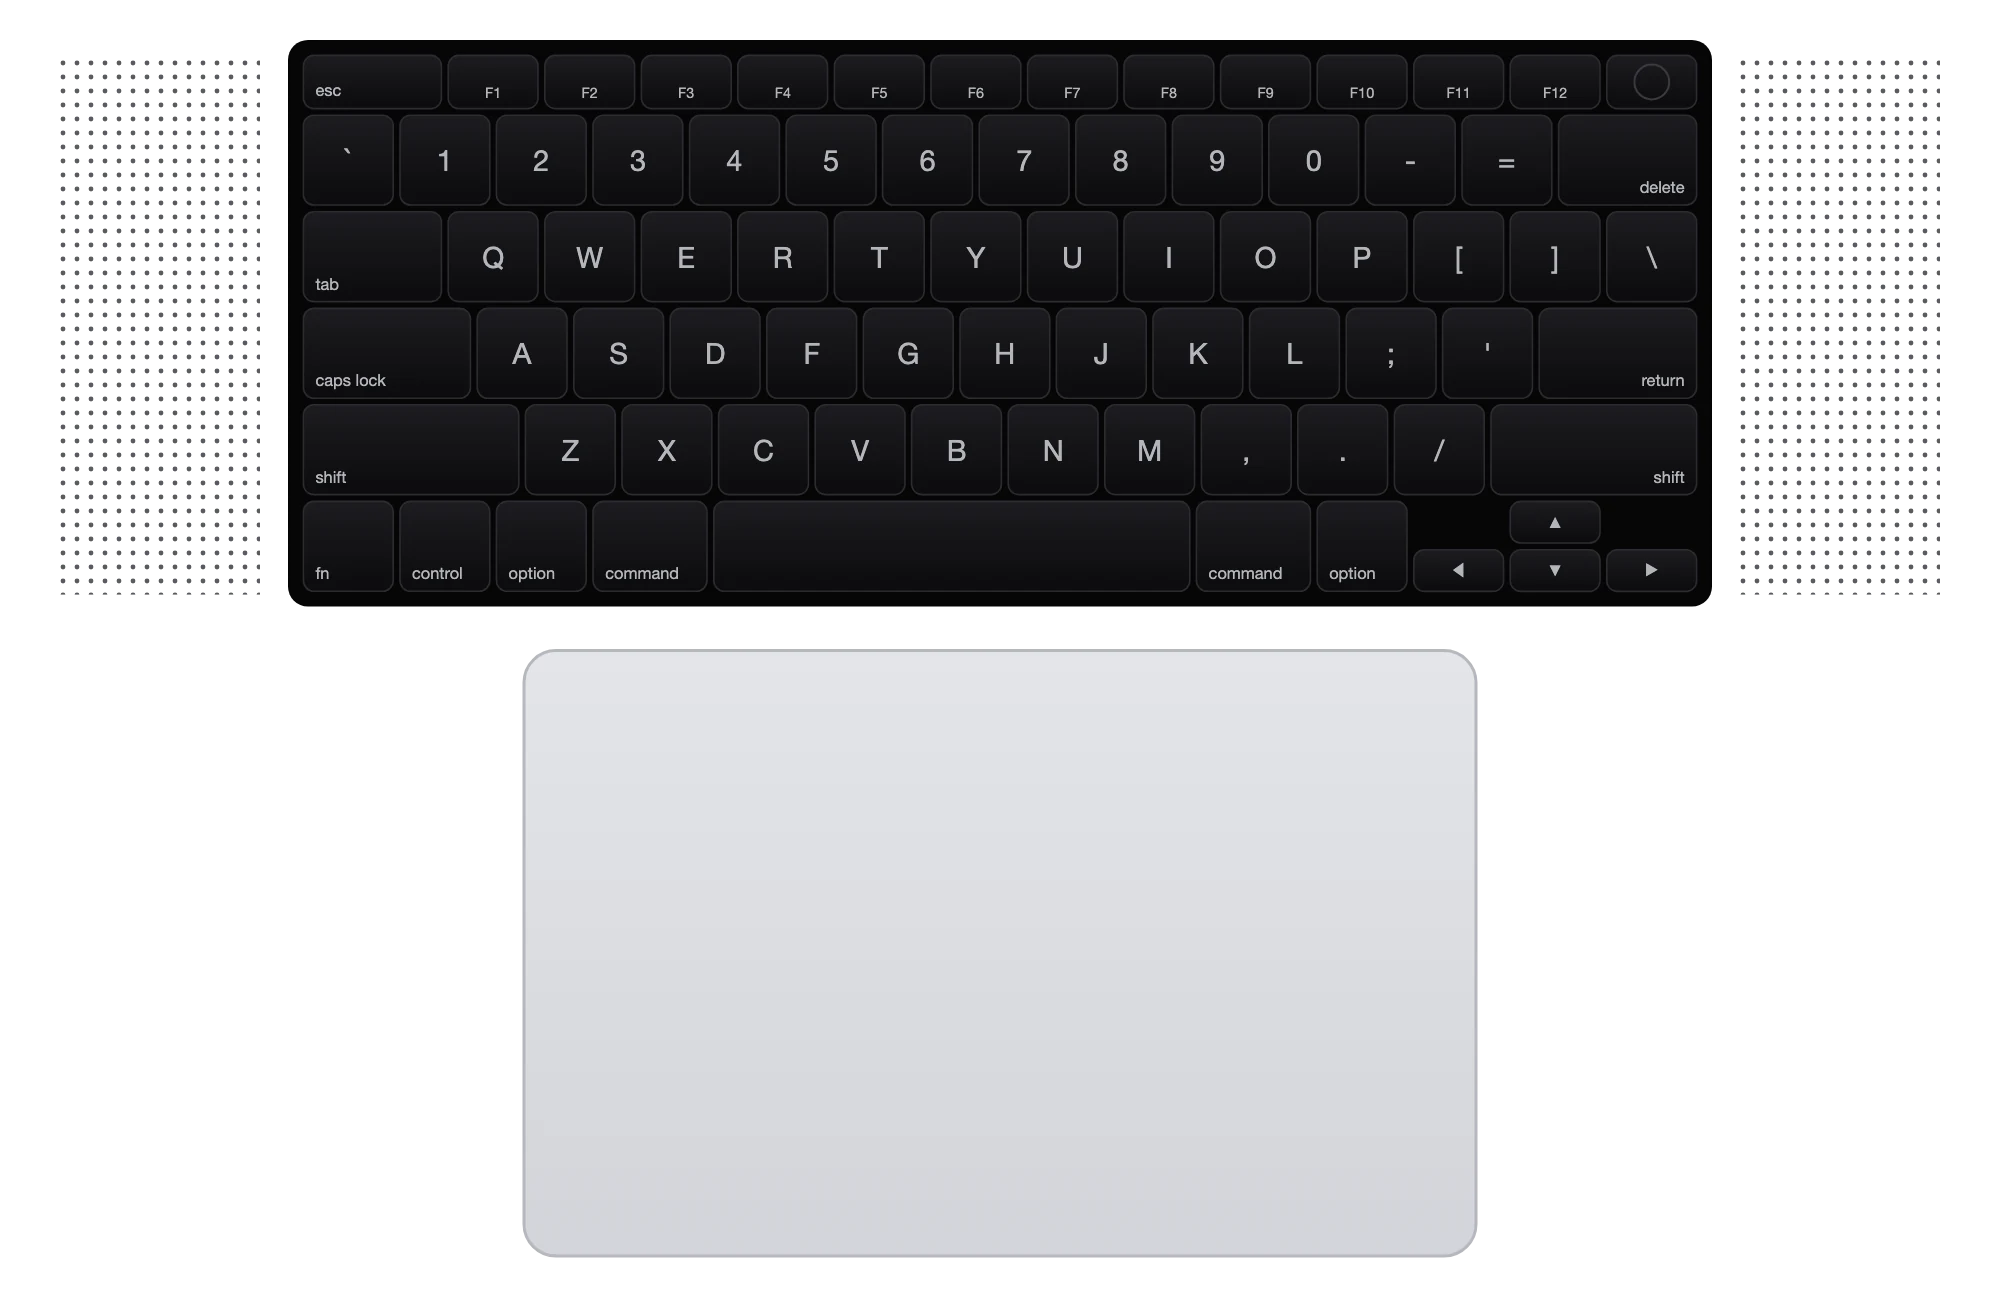
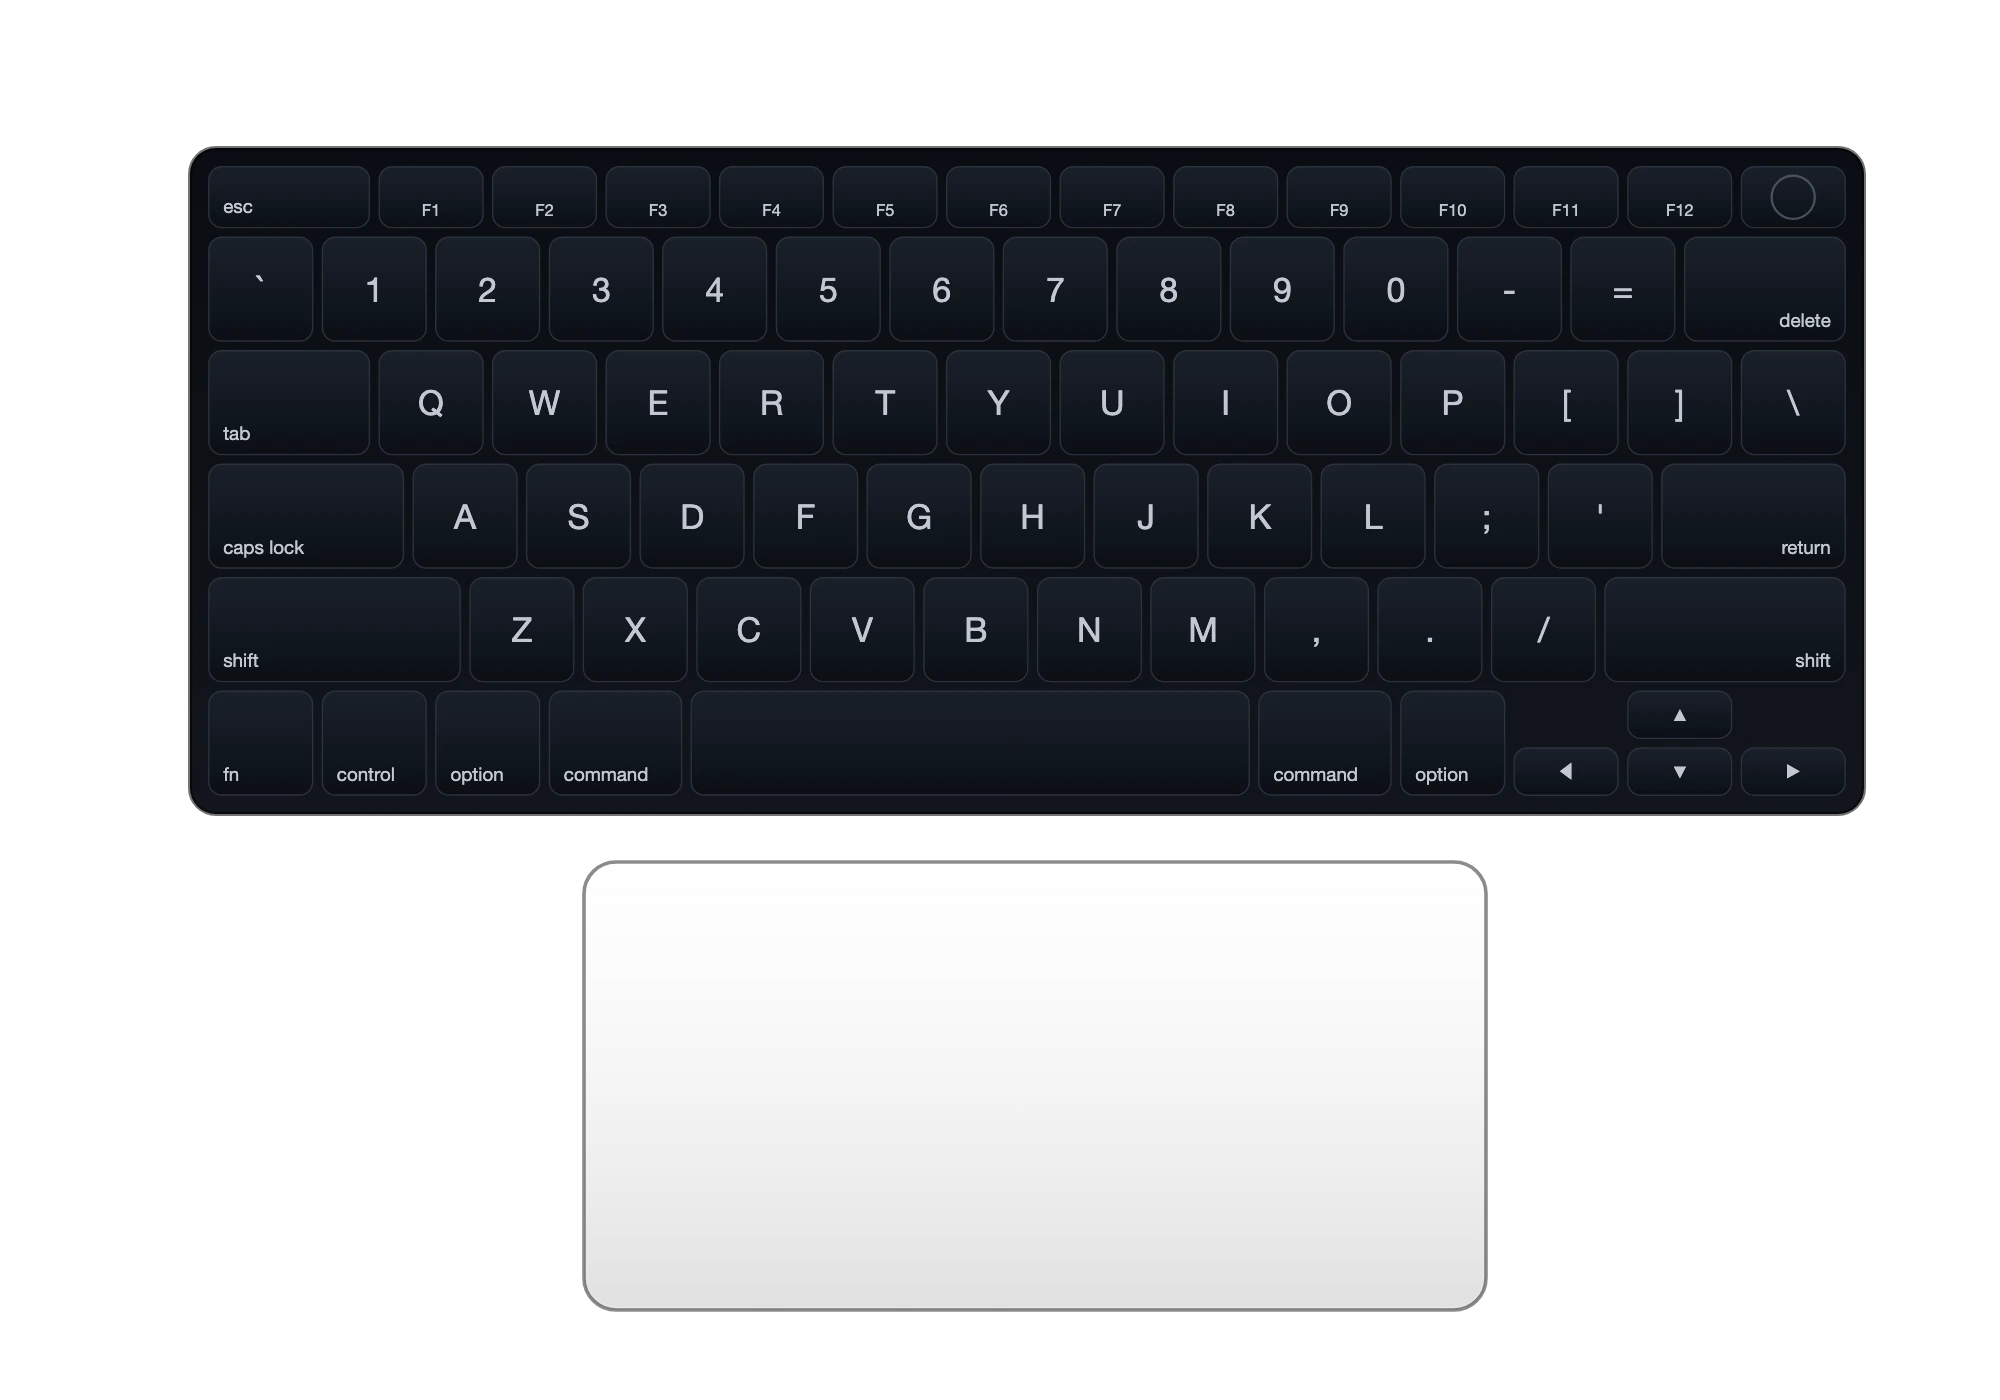
Realistickejší MacBook: Midnight Air 15 s reálnymi proporciami, novou klávesnicou a hranami; Space Solutions pri projekte s chatbotom

diff --git a/styles.css b/styles.css
@@ -227,7 +227,6 @@ h2 { font-size: clamp(2.6rem, 5.6vw, 5rem); font-weight: 800; line-height: 1; le
 .chips li { padding: 6px 10px; background: var(--bg-2); border-radius: 3px; font-family: var(--mono); font-size: 0.78rem; }
 
 /* MacBook that opens on scroll (sticky stage inside a tall wrapper) */
-/* svh, not vh: on phones vh changes while the address bar hides, which made the page jump */
 .mbwrap { position: relative; height: 260vh; height: 260svh; }
 .mbwrap__sticky {
   position: sticky; top: 0; height: 100vh; height: 100svh; overflow: hidden;
@@ -235,14 +234,22 @@ h2 { font-size: clamp(2.6rem, 5.6vw, 5rem); font-weight: 800; line-height: 1; le
   background: radial-gradient(60% 55% at 50% 58%, #f7f6f2, var(--bg) 70%);
 }
 .mbwrap__label { margin: 0; opacity: calc(var(--open, 0) * 1.4 - 0.2); }
-.mb__rig { will-change: transform; }
+
+/* Midnight MacBook Air 15", built to the real proportions: 340 x 238 x 11.5 mm */
 .mb {
-  --w: min(860px, 86vw, (100vh - 200px) * 0.98);
-  --w: min(860px, 86vw, (100svh - 200px) * 0.98);
-  --h: calc(var(--w) * 0.65);
-  --d: calc(var(--h) * 0.98);
-  --t: calc(var(--w) * 0.016); /* base thickness */
-  width: var(--w); height: calc(var(--h) + var(--d) * 0.24); margin-top: calc(var(--w) * 0.07);
+  /* 76vw, not the full width: the deck tilts toward the viewer, so it renders ~25 % wider than --w */
+  --w: min(860px, 76vw, (100vh - 200px) * 0.98);
+  --w: min(860px, 76vw, (100svh - 200px) * 0.98);
+  --h: calc(var(--w) * 0.685);  /* lid height */
+  --d: calc(var(--w) * 0.70);   /* deck depth */
+  --t: calc(var(--w) * 0.021);  /* thickness of the base */
+  --r: calc(var(--w) * 0.03);   /* outer corner radius */
+  --m-dark: #151a22;
+  --m-mid: #232b37;
+  --m-light: #3b4653;
+  --m-chamfer: #8a95a5;         /* diamond-cut edge that catches the light */
+  width: var(--w); height: calc(var(--h) + var(--d) * 0.24);
+  margin-top: calc(var(--w) * 0.07);
   perspective: calc(var(--w) * 3.4); perspective-origin: 50% 40%;
   /* Closed laptop sits lower and smaller; it rises to center as it opens */
   transform: translateY(calc((1 - var(--open, 0)) * var(--h) * -0.35)) scale(calc(0.84 + var(--open, 0) * 0.16));
@@ -252,79 +259,103 @@ h2 { font-size: clamp(2.6rem, 5.6vw, 5rem); font-weight: 800; line-height: 1; le
   transform-origin: 50% 100% calc(var(--d) * 0.5); /* turn around the middle of the base, not the hinge */
   /* Turns from a three-quarter view to straight-on while opening */
   transform: rotateX(-13deg) rotateY(calc((1 - var(--open, 0)) * var(--turn, -16deg)));
+  will-change: transform;
 }
 .mb__lid {
   position: absolute; inset: 0; transform-style: preserve-3d; transform-origin: 50% 100%;
-  /* --open 0 → lid lies closed just above the deck, 1 → open and tilted slightly back */
-  transform: translateY(calc(var(--w) * -0.005)) rotateX(calc(-90deg + var(--open, 0) * 100deg));
+  /* --open 0 -> lid lies closed just above the deck, 1 -> open and tilted slightly back */
+  transform: translateY(calc(var(--w) * -0.004)) rotateX(calc(-90deg + var(--open, 0) * 101deg));
 }
-.mb__face, .mb__back { position: absolute; inset: 0; border-radius: calc(var(--w) * 0.026) calc(var(--w) * 0.026) calc(var(--w) * 0.008) calc(var(--w) * 0.008); -webkit-backface-visibility: hidden; backface-visibility: hidden; }
-/* iPhone (WebKit) ignores backface-visibility for animated layers inside the screen, so the closed lid showed
-   the display instead of the aluminium back. Hide the screen side until the lid is actually lifted. */
-.mb__face { opacity: clamp(0, (var(--open, 0) - 0.12) * 25, 1); }
-/* Black glass bezel with the thin aluminium rim around it */
+.mb__face, .mb__back {
+  position: absolute; inset: 0;
+  border-radius: var(--r) var(--r) calc(var(--w) * 0.007) calc(var(--w) * 0.007);
+  -webkit-backface-visibility: hidden; backface-visibility: hidden;
+}
+/* Front of the lid: one sheet of black glass inside a hairline aluminium rim */
 .mb__face {
-  background: #050506; overflow: hidden;
-  box-shadow: 0 0 0 calc(var(--w) * 0.0035) #c3c6cc, 0 0 0 calc(var(--w) * 0.005) #8e9197, inset 0 0 0 1px #1d1d21;
+  background: #07080b; overflow: hidden;
+  box-shadow: 0 0 0 calc(var(--w) * 0.0024) #414b58, 0 0 0 calc(var(--w) * 0.0042) #1a202a,
+              0 calc(var(--w) * 0.004) calc(var(--w) * 0.02) rgba(5, 7, 10, 0.5);
+  /* iPhone ignores backface-visibility here, so the screen stays hidden until the lid lifts */
+  opacity: clamp(0, (var(--open, 0) - 0.12) * 25, 1);
 }
+/* Back of the lid: anodised midnight aluminium lit from the upper left */
 .mb__back {
   transform: rotateY(180deg);
   background:
-    radial-gradient(70% 90% at 30% 20%, rgba(255, 255, 255, 0.55), transparent 60%),
-    linear-gradient(165deg, #eceef1, #cfd2d7 55%, #b9bcc2);
-  box-shadow: inset 0 0 0 1px #aeb1b7, inset 0 calc(var(--w) * 0.004) 0 rgba(255, 255, 255, 0.7);
+    radial-gradient(75% 60% at 26% 12%, rgba(255, 255, 255, 0.13), transparent 62%),
+    linear-gradient(157deg, var(--m-light), var(--m-mid) 46%, var(--m-dark));
+  box-shadow: inset 0 0 0 1px rgba(255, 255, 255, 0.06),
+              inset 0 calc(var(--w) * 0.0022) 0 rgba(255, 255, 255, 0.16);
 }
 .mb__screen, .mb__off, .mb__glare {
-  position: absolute; left: 2%; right: 2%; top: 3%; bottom: 3.2%; border-radius: calc(var(--w) * 0.006);
+  position: absolute; left: 1.9%; right: 1.9%; top: 2.5%; bottom: 3.6%;
+  border-radius: calc(var(--w) * 0.013);
 }
 .mb__screen { overflow: hidden; background: #f4f4f1; container-type: inline-size; }
-.mb__off { background: radial-gradient(120% 90% at 30% 0%, #16171b, #030304 60%); opacity: calc(1 - (var(--open, 0) - 0.72) * 4); pointer-events: none; }
-.mb__glare { background: linear-gradient(118deg, rgba(255, 255, 255, 0.14) 0%, rgba(255, 255, 255, 0.04) 32%, transparent 33%); pointer-events: none; }
-.mb .dmac__notch { z-index: 3; width: 13%; height: 5.2%; border-radius: 0 0 calc(var(--w) * 0.01) calc(var(--w) * 0.01); background: #050506; }
-/* Keyboard deck: aluminium plus a detailed SVG keyboard, speakers and trackpad */
-.mb__deck {
-  position: absolute; top: 100%; left: 0; width: 100%; height: var(--d); transform-origin: 50% 0; transform: rotateX(90deg);
-  border-radius: calc(var(--w) * 0.008) calc(var(--w) * 0.008) calc(var(--w) * 0.03) calc(var(--w) * 0.03);
-  background:
-    url("assets/img/macbook-deck.webp") center / 100% 100% no-repeat, /* pre-rendered: a bitmap scales cheaply, the SVG re-rasterized on every scroll frame */
-    radial-gradient(80% 70% at 50% 30%, rgba(255, 255, 255, 0.5), transparent 70%),
-    linear-gradient(180deg, #d2d5da, #e6e8eb 35%, #dadde1);
-  box-shadow: inset 0 0 0 1px #b4b7bd, inset 0 calc(var(--w) * -0.003) 0 rgba(255, 255, 255, 0.8);
+.mb__off { background: radial-gradient(135% 100% at 26% -12%, #191d25, #050609 58%); pointer-events: none; opacity: calc(1 - (var(--open, 0) - 0.72) * 4); }
+.mb__glare { background: linear-gradient(118deg, rgba(255, 255, 255, 0.11) 0 19%, rgba(255, 255, 255, 0.035) 33%, transparent 34%); pointer-events: none; }
+.mb .dmac__notch {
+  z-index: 3; top: 2.5%; width: 8.6%; height: 3.4%;
+  border-radius: 0 0 calc(var(--w) * 0.007) calc(var(--w) * 0.007); background: #07080b;
 }
-/* Shade from the lid near the hinge + screen light spilling onto the keys */
+/* Camera: sized from the lid width (cqw would resolve against the viewport here) and centred in the notch */
+.mb .dmac__notch::after {
+  top: 50%; left: 50%; width: calc(var(--w) * 0.0058); height: calc(var(--w) * 0.0058);
+  transform: translate(-50%, -50%); box-shadow: none;
+  background: radial-gradient(circle at 34% 32%, #2b3952, #090c12 62%);
+}
+/* Keyboard deck: anodised midnight plus the pre-rendered keyboard and trackpad */
+.mb__deck {
+  position: absolute; top: 100%; left: 0; width: 100%; height: var(--d);
+  transform-origin: 50% 0; transform: rotateX(90deg);
+  border-radius: calc(var(--w) * 0.007) calc(var(--w) * 0.007) var(--r) var(--r);
+  background:
+    url("assets/img/macbook-deck.webp") center / 100% 100% no-repeat,
+    radial-gradient(85% 70% at 50% 16%, rgba(255, 255, 255, 0.09), transparent 72%),
+    linear-gradient(180deg, #1e252f, #2c3542 32%, #262e3a);
+  box-shadow: inset 0 0 0 1px rgba(255, 255, 255, 0.05);
+}
+/* Shade cast by the lid near the hinge */
 .mb__deck::after {
   content: ""; position: absolute; inset: 0; border-radius: inherit; pointer-events: none;
-  background: linear-gradient(180deg, rgba(14, 15, 19, 0.28), transparent 14%);
+  background: linear-gradient(180deg, rgba(0, 0, 0, 0.5), transparent 13%);
 }
 .mb__glow {
-  position: absolute; inset: 0 0 40% 0; pointer-events: none; border-radius: inherit;
-  background: radial-gradient(70% 60% at 50% 0%, rgba(140, 160, 255, 0.28), transparent 70%);
+  position: absolute; inset: 0 0 42% 0; pointer-events: none; border-radius: inherit;
+  background: radial-gradient(70% 62% at 50% 0%, rgba(150, 170, 255, 0.2), transparent 70%);
   opacity: calc((var(--open, 0) - 0.75) * 4);
 }
 .mb__hinge {
-  position: absolute; top: 100%; left: 12%; width: 76%; height: calc(var(--w) * 0.012);
-  transform: translateY(-50%); border-radius: calc(var(--w) * 0.006);
-  background: linear-gradient(180deg, #2a2b2f, #0d0d10 55%, #3a3b40);
+  position: absolute; top: 100%; left: 8.5%; width: 83%; height: calc(var(--w) * 0.009);
+  transform: translateY(-50%); border-radius: calc(var(--w) * 0.005);
+  background: linear-gradient(180deg, #05070a, #1b222c 58%, #39434f);
 }
+/* Front edge of the base, with the bright chamfer along the top */
 .mb__lip {
   position: absolute; top: 100%; left: 0; width: 100%; height: var(--t);
-  transform: translateZ(var(--d)); border-radius: 0 0 calc(var(--w) * 0.03) calc(var(--w) * 0.03) / 0 0 calc(var(--w) * 0.012) calc(var(--w) * 0.012);
-  background: linear-gradient(180deg, #e2e4e8, #b5b8be 55%, #8f9298);
+  transform: translateZ(var(--d));
+  border-radius: 0 0 var(--r) var(--r) / 0 0 calc(var(--w) * 0.013) calc(var(--w) * 0.013);
+  background: linear-gradient(180deg, var(--m-chamfer) 0 7%, #3c4652 17%, #242c38 68%, #181e27);
 }
 /* Finger notch in the front edge */
-.mb__lip span { position: absolute; top: 0; left: 50%; width: 12%; height: 55%; transform: translateX(-50%); border-radius: 0 0 50% 50% / 0 0 100% 100%; background: linear-gradient(180deg, #9a9da3, #c9ccd1); }
+.mb__lip span {
+  position: absolute; top: 0; left: 50%; width: 11%; height: 58%; transform: translateX(-50%);
+  border-radius: 0 0 50% 50% / 0 0 100% 100%; background: linear-gradient(180deg, #11161d, #2b3440);
+}
 /* Left and right edges of the base */
 .mb__side {
-  position: absolute; top: 100%; width: var(--d); height: var(--t); transform-origin: 0 0; transform: rotateY(-90deg);
-  background: linear-gradient(180deg, #d9dbdf, #a4a7ad);
+  position: absolute; top: 100%; width: var(--d); height: var(--t);
+  transform-origin: 0 0; transform: rotateY(-90deg);
+  background: linear-gradient(180deg, var(--m-chamfer) 0 6%, #353f4b 15%, #1c232d);
 }
 .mb__side--l { left: 0; }
 .mb__side--r { left: 100%; }
 /* Soft shadow on the "table" under the laptop */
 .mb__floor {
-  position: absolute; top: 100%; left: -14%; width: 128%; height: calc(var(--d) * 1.3);
-  transform-origin: 50% 0; transform: translateY(var(--t)) rotateX(90deg) translateY(-6%);
-  background: radial-gradient(closest-side, rgba(14, 15, 19, 0.42), rgba(14, 15, 19, 0.16) 62%, transparent);
+  position: absolute; top: 100%; left: -12%; width: 124%; height: calc(var(--d) * 1.26);
+  transform-origin: 50% 0; transform: translateY(var(--t)) rotateX(90deg) translateY(-5%);
+  background: radial-gradient(closest-side, rgba(14, 15, 19, 0.5), rgba(14, 15, 19, 0.2) 58%, transparent);
 }
 
 /* Sample automation app on the screen; sized in cqw so it scales with the laptop */
@@ -743,7 +774,7 @@ body.has-dialog { overflow: hidden; }
   .notif { backdrop-filter: none; -webkit-backdrop-filter: none; background: rgba(50, 50, 56, 0.9); }
   .lock__actions span { backdrop-filter: none; -webkit-backdrop-filter: none; background: rgba(40, 40, 46, 0.8); }
   .mbwrap { height: 200vh; height: 200svh; }
-  .mb { --w: calc(100vw - 72px); --turn: -7deg; }
+  .mb { --w: calc(100vw - 100px); --turn: -7deg; }
 }
 
 @media (prefers-reduced-motion: reduce) {

diff --git a/index.html b/index.html
@@ -207,7 +207,7 @@
           <article class="project">
             <div class="project__aside reveal"><span class="project__num">01</span><time class="project__date" datetime="2026-10-01">1. 10. 2026</time></div>
             <div class="project__main reveal">
-              <p class="project__proof"><span class="live"><i></i>V prevádzke</span></p>
+              <p class="project__proof"><span class="live"><i></i>V prevádzke</span><span class="collab">V spolupráci so Space Solutions</span></p>
               <p class="mono">Brány, ploty a zábradlia</p>
               <h3>Chatbot a konfigurátor v jednom s orientačnou cenou</h3>
               <div class="flowline"><span>Web chatbot</span><i></i><span>Konfigurátor</span><i></i><span>Cenová kalkulačka</span><i></i><span class="is-blue">E-mail dopyt</span></div>
@@ -587,7 +587,7 @@
 
         <dl class="detail__facts">
           <div><dt class="mono">Dátum</dt><dd><time datetime="2026-10-01">1. 10. 2026</time></dd></div>
-          <div><dt class="mono">Autor</dt><dd>Filip Haraj</dd></div>
+          <div><dt class="mono">V spolupráci s</dt><dd>Space Solutions</dd></div>
           <div><dt class="mono">Moja rola</dt><dd>Návrh, vývoj a nasadenie</dd></div>
           <div><dt class="mono">Stav</dt><dd><span class="live"><i></i>V prevádzke</span></dd></div>
         </dl>
